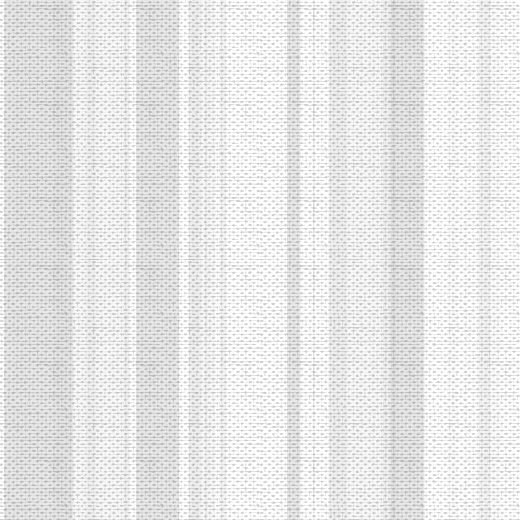
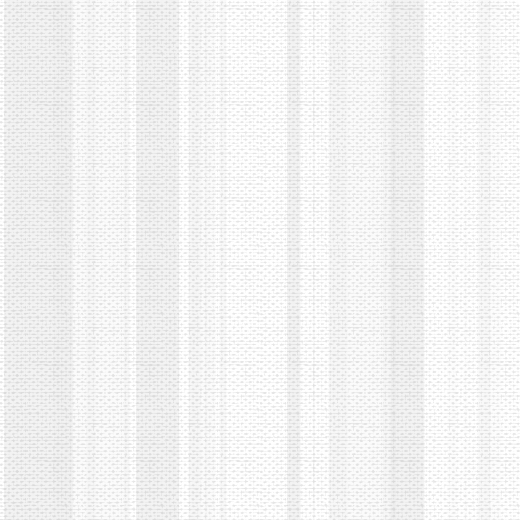
- added "new user" option in admin panel - brightened the background images

diff --git a/assets/js/jq_impl.js b/assets/js/jq_impl.js
@@ -193,8 +193,11 @@ jQuery(function($) {"use strict";
                         result = $.trim(result);
                         $('nav').prepend(result);
                         showNav().always(function() {
-                            $('#pwLoader').addClass('hidden');
                             $('#btnPassword').on('click', btnPassWordClick).removeClass('loading');
+
+                            window.setTimeout(function() {
+                                $('#pwLoader').addClass('hidden');
+                            }, 2000);
                         });
                     });
                 }).fail(function(result) {
@@ -202,7 +205,10 @@ jQuery(function($) {"use strict";
                         distance : 10,
                         times : 2
                     });
-                    $('#pwLoader').addClass('hidden');
+
+                    window.setTimeout(function() {
+                        $('#pwLoader').addClass('hidden');
+                    }, 2000);
                     $('#btnPassword').on('click', btnPassWordClick).removeClass('loading');
                 })
             }
@@ -247,7 +253,10 @@ jQuery(function($) {"use strict";
                     tbEmail.addClass('error');
                 }).always(function() {
                     $('#btnEmail').on('click', btnEmailClick).removeClass('loading');
-                    $('#emailLoader').addClass('hidden');
+
+                    window.setTimeout(function() {
+                        $('#emailLoader').addClass('hidden');
+                    }, 2000);
                 });
             }
         }
@@ -267,9 +276,11 @@ jQuery(function($) {"use strict";
                         val : checkedVal
                     })
                 }).done(function() {
-                    cbLoader.addClass('hidden');
                     $('.checkbox.checked').removeClass('checked').addClass('pointer');
                     that.addClass('checked');
+                    window.setTimeout(function() {
+                        cbLoader.addClass('hidden');
+                    }, 2000);
                 }).always(function() {
                     $('#cbAttendance').find('.checkbox').not('.checked').on('click', cbAttendanceClick);
                 });

diff --git a/dbConnectController.php b/dbConnectController.php
@@ -7,7 +7,7 @@ session_start();
 if (isset($_POST['action']) && !empty($_POST['action'])) {
 	$action = $_POST['action'];
 
-	switch($action) {
+	switch ($action) {
 		case 'validateUser' :
 			validateUser($_POST['usr'], $_POST['pw']);
 			break;
@@ -43,9 +43,6 @@ if (isset($_POST['action']) && !empty($_POST['action'])) {
 			break;
 	}
 }
-?>
-
-<?php
 
 class dbConnectController {
 
@@ -93,7 +90,7 @@ class dbConnectController {
 
 	public function getUserByFullName($firstName, $lastName, $usr) {
 		$usr = strtolower($usr);
-		$query = "SELECT * FROM " . conf::TBL_USR . " WHERE (" . conf::USR_NAME . " = '$usr') OR (" . conf::USR_FNAME . " = '$firstName' AND " . conf::USR_LNAME . " = '$lastName')";		
+		$query = "SELECT * FROM " . conf::TBL_USR . " WHERE (" . conf::USR_NAME . " = '$usr') OR (" . conf::USR_FNAME . " = '$firstName' AND " . conf::USR_LNAME . " = '$lastName')";
 		$result = $this -> connection -> query($query);
 		return $result;
 	}
@@ -107,7 +104,7 @@ class dbConnectController {
 
 	public function getUsers() {
 		$usr = strtolower($usr);
-		$query = "SELECT * FROM " . conf::TBL_USR . " ORDER BY  " . conf::USR_NAME . " ASC ";
+		$query = "SELECT * FROM " . conf::TBL_USR . " ORDER BY  " . conf::USR_FNAME . " ASC ";
 		$result = $this -> connection -> query($query);
 		return $result;
 	}
@@ -190,10 +187,12 @@ class dbConnectController {
 // }
 
 function validateUser($usr, $pw) {
-	if (empty($usr)) { echo "USR empty";
+	if (empty($usr)) {
+		echo "USR empty";
 		return;
 	}
-	if (empty($pw)) { echo "PW empty";
+	if (empty($pw)) {
+		echo "PW empty";
 		return;
 	}
 
@@ -221,10 +220,12 @@ function validateUser($usr, $pw) {
 
 function validateAdmin($usr, $pw) {
 	$_SESSION['is_adm'] = 0;
-	if (empty($usr)) { echo "USR empty";
+	if (empty($usr)) {
+		echo "USR empty";
 		return;
 	}
-	if (empty($pw)) { echo "PW empty";
+	if (empty($pw)) {
+		echo "PW empty";
 		return;
 	}
 
@@ -259,7 +260,7 @@ function validateAdmin($usr, $pw) {
 					$resultTable .= "<tr><td>" . $row['first_name'] . " " . $row['last_name'] . "</td><td>";
 					$options .= "<option value=\"" . $row['username'] . "\">" . $row['first_name'] . " " . $row['last_name'] . "</option>";
 
-					switch($row['will_participate']) {
+					switch ($row['will_participate']) {
 						case -1 :
 							$notChoosen++;
 							$resultTable .= "<span class=\"notChoosen\">Nicht gew&auml;hlt</span>";
@@ -291,15 +292,13 @@ function validateAdmin($usr, $pw) {
 				echo "</table>";
 				echo "</fieldset>";
 
-				//outer table
 				echo "</td><td class=\"overview\">";
 				echo "<fieldset><legend>Übersicht</legend>";
 				echo $resultTable;
 				echo "</fieldset>";
 
-				//outer table
-				//echo "</td><td class=\"newUser\">";
-				//echo conf::UI_TBL_NEW_USER;
+				echo "</td><td class=\"newUser\">";
+				echo conf::UI_TBL_NEW_USER;
 
 				//outer table
 				//echo "</td><td class=\"changeUser\">";
@@ -332,6 +331,19 @@ function addNewUser($fn, $ln, $un, $pw) {
 		header('HTTP/1.0 500 User already exists');
 		echo "User already exists!";
 		exit ;
+	} else {
+		$salt = generateSalt();
+		$pw = md5($salt . $pw);
+
+		if (!mb_detect_encoding($fn, 'UTF-8', true)) {
+			$fn = utf8_encode($fn);
+		}
+
+		if (!mb_detect_encoding($ln, 'UTF-8', true)) {
+			$ln = utf8_encode($ln);
+		}
+		
+		$db -> createUsernameAndSalt($un, $fn, $ln, $pw, $salt);		
 	}
 
 	$db -> closeConnection();
@@ -406,14 +418,15 @@ function getEmailValue() {
 	return $value;
 }
 
-// function generateSalt($max = 32) {
-// $characterList = "abcdefghijklmnopqrstuvwxyzABCDEFGHIJKLMNOPQRSTUVWXYZ0123456789!@#$%&*?";
-// $i = 0;
-// $salt = "";
-// while ($i < $max) {
-// $salt .= $characterList{mt_rand(0, (strlen($characterList) - 1))};
-// $i++;
-// }
-// return $salt;
-// }
+function generateSalt($max = 32) {
+	$characterList = "abcdefghijklmnopqrstuvwxyzABCDEFGHIJKLMNOPQRSTUVWXYZ0123456789!@#$%&*?";
+	$i = 0;
+	$salt = "";
+	while ($i < $max) {
+		$salt .= $characterList{mt_rand(0, (strlen($characterList) - 1))};
+		$i++;
+	}
+
+	return $salt;
+}
 ?>

diff --git a/adminBD.php b/adminBD.php
@@ -58,7 +58,7 @@ ob_start();
                                 pw : tbNewUserPasswordOneValue
                             })
                         }).done(function(result) {
-                            adminMessageadminMessage(result);
+                            adminMessage(result);
                         }).fail(function(result) {
                             adminMessage(result.statusText);
                         }).always(function() {
